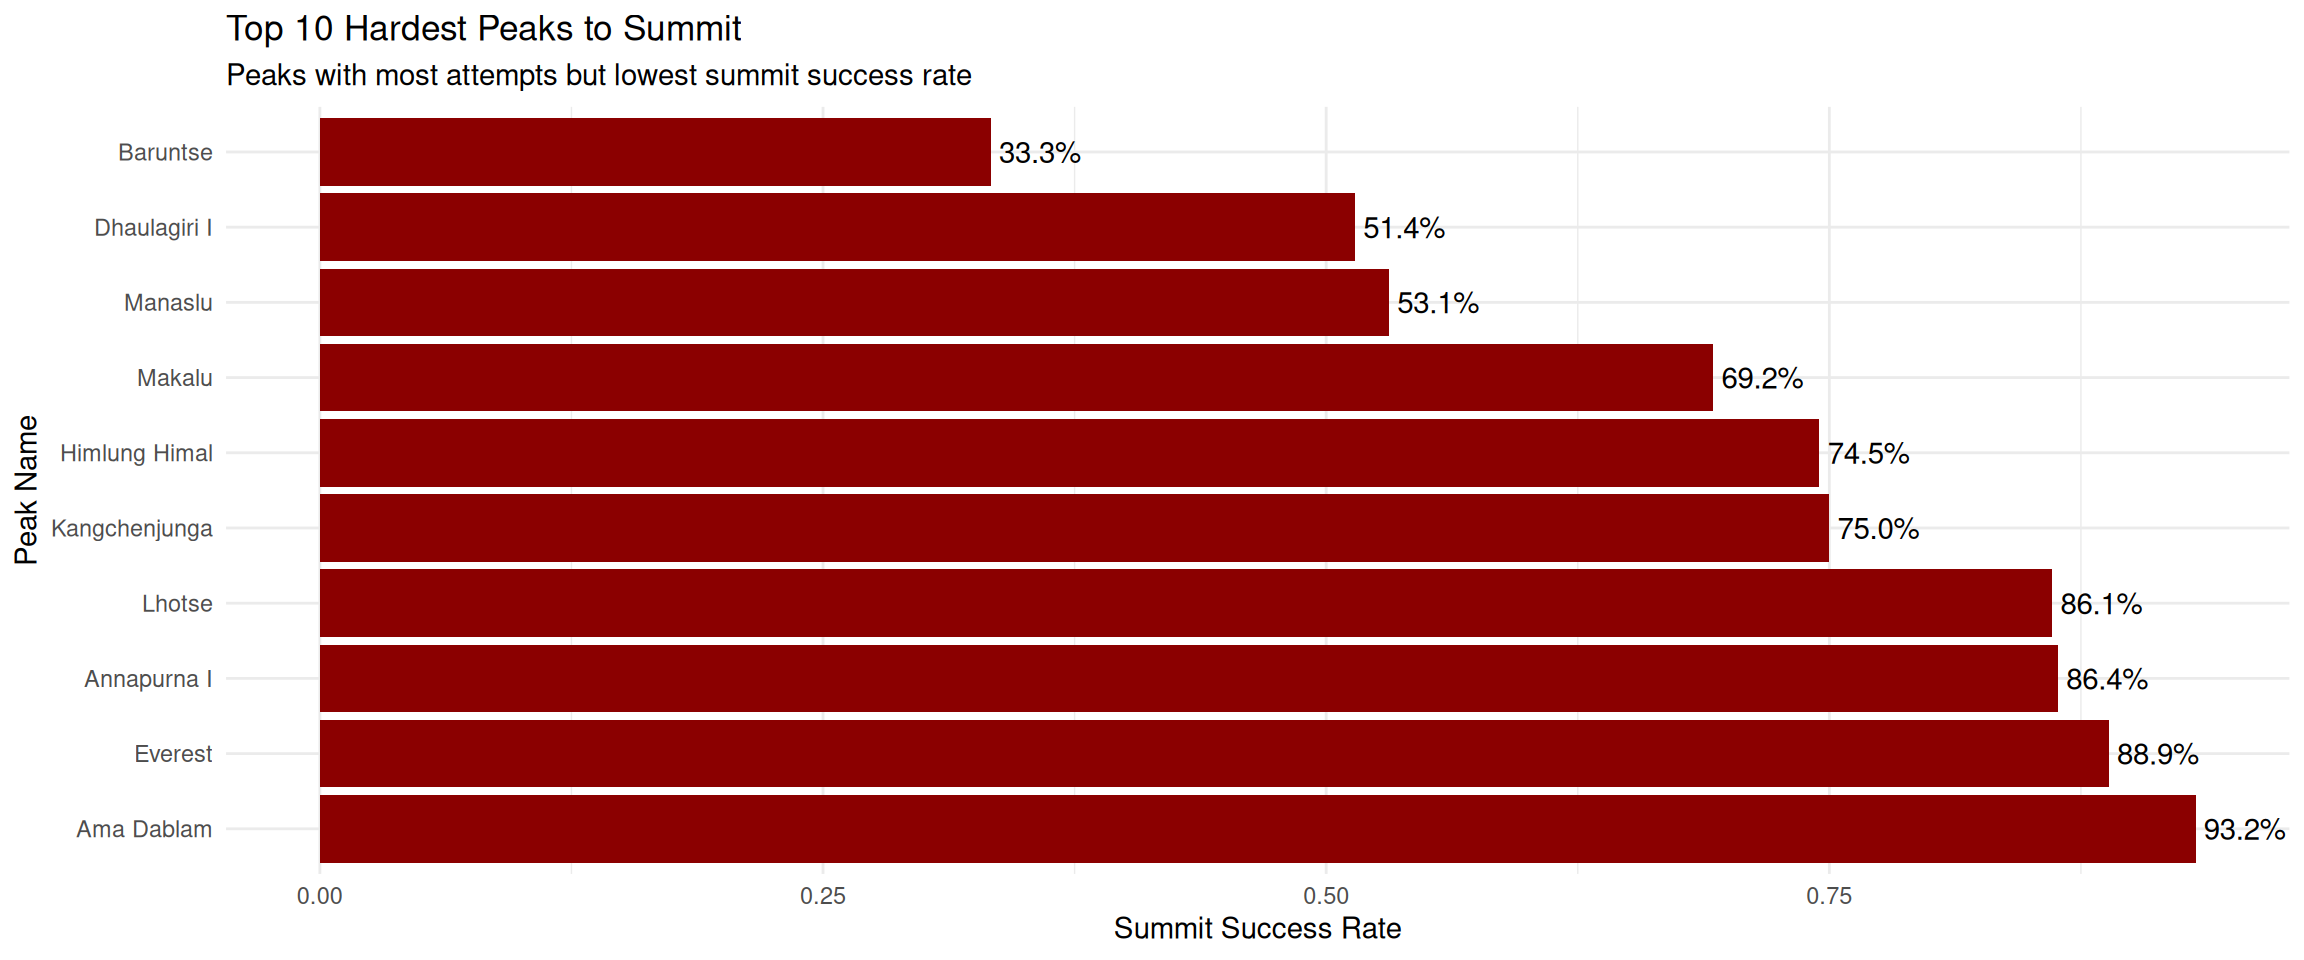
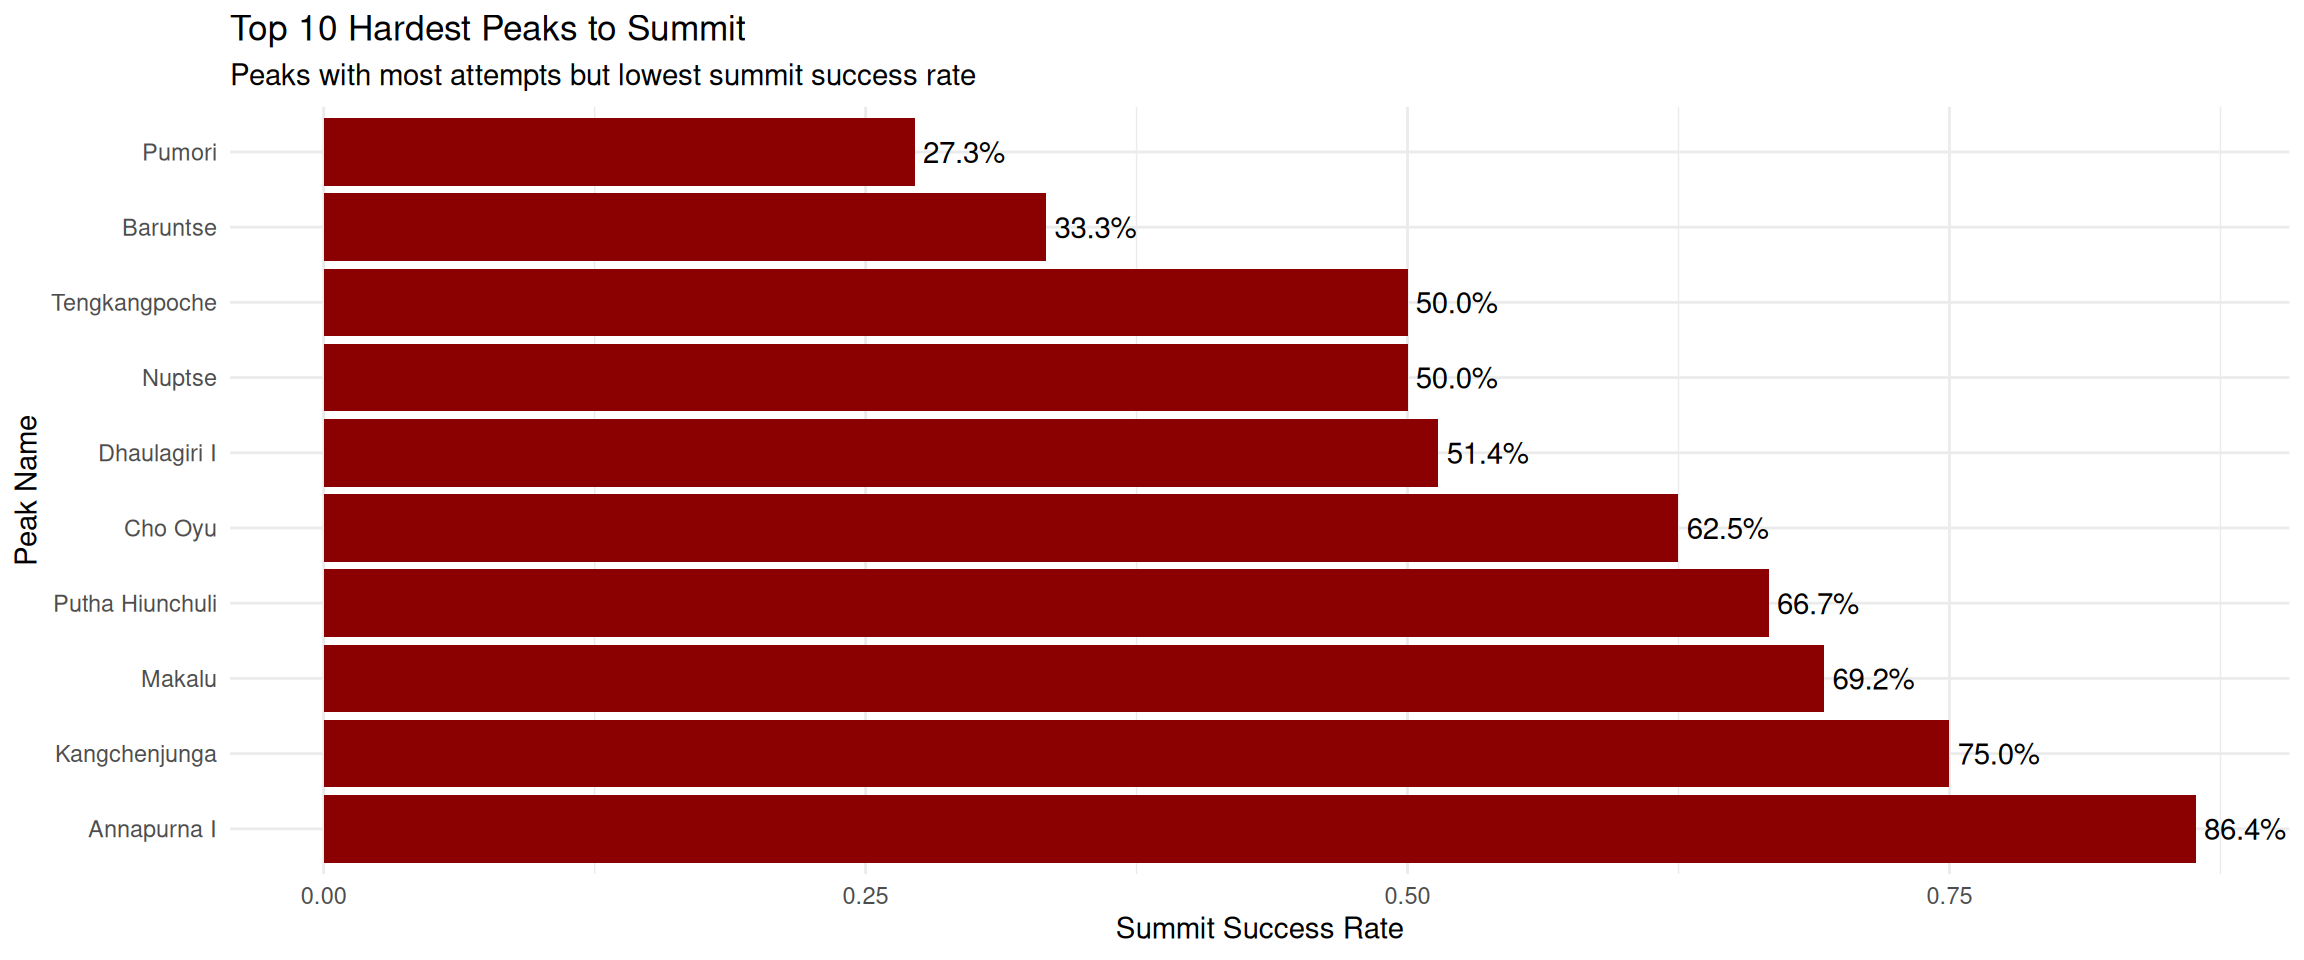
Built site for gh-pages

diff --git a/projects/project_title.html b/projects/project_title.html
@@ -293,7 +293,7 @@ pre > code.sourceCode > span > a:first-child::before { text-decoration: underlin
 <h2 class="anchored" data-anchor-id="questions">Questions</h2>
 <section id="what-is-the-most-successful-route-for-the-expedition-for-8000m-peaks" class="level3">
 <h3 class="anchored" data-anchor-id="what-is-the-most-successful-route-for-the-expedition-for-8000m-peaks">1. What is the most successful route for the expedition for 8000m peaks?</h3>
-<p>There are 4 different routes enlisted for each peaks, assigned by <code>ASCENT1</code>, <code>ASCENT2</code>, <code>ASCENT3</code> and <code>ASCENT4</code>. The successful climbing using these routes are stored in corresponding logical vector <code>SUCCESS1</code>, <code>SUCCESS2</code>, <code>SUCCESS3</code>, <code>SUCCESS4</code>. We will use these SUCCESS data along with the <code>exped.8k</code> dataset.</p>
+<p>There are 4 different routes enlisted for each peaks, assigned by <code>ROUTE1</code>, <code>ROUTE2</code>, <code>ROUTE3</code> and <code>ROUTE4</code>. The successful climbing using these routes are stored in corresponding logical vector <code>SUCCESS1</code>, <code>SUCCESS2</code>, <code>SUCCESS3</code>, <code>SUCCESS4</code>. We will use these SUCCESS data along with the <code>exped.8k</code> dataset.</p>
 <div class="cell">
 <div class="sourceCode cell-code" id="cb12"><pre class="sourceCode r code-with-copy"><code class="sourceCode r"><span id="cb12-1"><a href="#cb12-1" aria-hidden="true" tabindex="-1"></a>exped<span class="fl">.8</span>k <span class="sc">|&gt;</span> <span class="fu">pivot_longer</span>(<span class="at">cols =</span> <span class="fu">c</span>(SUCCESS1, SUCCESS2, SUCCESS3, SUCCESS4),</span>
 <span id="cb12-2"><a href="#cb12-2" aria-hidden="true" tabindex="-1"></a>                           <span class="at">names_to =</span> <span class="st">"route_success"</span>,</span>
@@ -525,7 +525,7 @@ pre > code.sourceCode > span > a:first-child::before { text-decoration: underlin
 <span id="cb21-3"><a href="#cb21-3" aria-hidden="true" tabindex="-1"></a>  <span class="fu">group_by</span>(O2USED) <span class="sc">|&gt;</span></span>
 <span id="cb21-4"><a href="#cb21-4" aria-hidden="true" tabindex="-1"></a>  <span class="fu">summarise</span>(<span class="at">success.rate =</span> (<span class="fu">mean</span>(success, <span class="at">na.rm =</span> <span class="cn">TRUE</span>)),</span>
 <span id="cb21-5"><a href="#cb21-5" aria-hidden="true" tabindex="-1"></a>            <span class="at">death.rate =</span> <span class="fu">mean</span>(death <span class="sc">&gt;</span> <span class="dv">0</span>, <span class="at">na.rm =</span> <span class="cn">TRUE</span>)) <span class="sc">|&gt;</span></span>
-<span id="cb21-6"><a href="#cb21-6" aria-hidden="true" tabindex="-1"></a>  <span class="fu">pivot_longer</span>(<span class="at">cols =</span> <span class="fu">c</span>(success.rate, death.rate), <span class="at">names_to =</span> <span class="st">"names"</span>, <span class="at">values_to =</span> <span class="st">"rate"</span>) <span class="sc">%&gt;%</span></span>
+<span id="cb21-6"><a href="#cb21-6" aria-hidden="true" tabindex="-1"></a>  <span class="fu">pivot_longer</span>(<span class="at">cols =</span> <span class="fu">c</span>(success.rate, death.rate), <span class="at">names_to =</span> <span class="st">"names"</span>, <span class="at">values_to =</span> <span class="st">"rate"</span>) <span class="sc">|&gt;</span></span>
 <span id="cb21-7"><a href="#cb21-7" aria-hidden="true" tabindex="-1"></a>  <span class="fu">ggplot</span>(<span class="fu">aes</span>(<span class="at">x =</span> O2USED, <span class="at">y =</span> rate, <span class="at">fill =</span> names)) <span class="sc">+</span></span>
 <span id="cb21-8"><a href="#cb21-8" aria-hidden="true" tabindex="-1"></a>  <span class="fu">geom_col</span>(<span class="at">position =</span> <span class="st">"dodge"</span>) <span class="sc">+</span></span>
 <span id="cb21-9"><a href="#cb21-9" aria-hidden="true" tabindex="-1"></a>  <span class="fu">scale_y_continuous</span>(<span class="at">labels =</span> scales<span class="sc">::</span>percent) <span class="sc">+</span></span>
@@ -552,7 +552,7 @@ pre > code.sourceCode > span > a:first-child::before { text-decoration: underlin
 <span id="cb22-7"><a href="#cb22-7" aria-hidden="true" tabindex="-1"></a>    <span class="at">summit.rate =</span> successes <span class="sc">/</span> attempts) <span class="sc">|&gt;</span></span>
 <span id="cb22-8"><a href="#cb22-8" aria-hidden="true" tabindex="-1"></a>  <span class="fu">left_join</span>(<span class="fu">select</span>(peak.data, PEAKID, PKNAME), <span class="at">by =</span> <span class="st">"PEAKID"</span>) <span class="sc">|&gt;</span></span>
 <span id="cb22-9"><a href="#cb22-9" aria-hidden="true" tabindex="-1"></a>  <span class="fu">filter</span>(<span class="sc">!</span><span class="fu">is.na</span>(PKNAME), attempts <span class="sc">&gt;=</span> <span class="dv">5</span>) <span class="sc">|&gt;</span></span>
-<span id="cb22-10"><a href="#cb22-10" aria-hidden="true" tabindex="-1"></a>  <span class="fu">arrange</span>(<span class="fu">desc</span>(attempts)) <span class="sc">|&gt;</span></span>
+<span id="cb22-10"><a href="#cb22-10" aria-hidden="true" tabindex="-1"></a>  <span class="fu">arrange</span>(attempts) <span class="sc">|&gt;</span></span>
 <span id="cb22-11"><a href="#cb22-11" aria-hidden="true" tabindex="-1"></a>  <span class="fu">slice_head</span>(<span class="at">n =</span> <span class="dv">10</span>) <span class="sc">|&gt;</span></span>
 <span id="cb22-12"><a href="#cb22-12" aria-hidden="true" tabindex="-1"></a>  <span class="fu">arrange</span>(summit.rate) <span class="sc">|&gt;</span></span>
 <span id="cb22-13"><a href="#cb22-13" aria-hidden="true" tabindex="-1"></a>  <span class="co">#slice_head(n = 10) |&gt;</span></span>

diff --git a/projects.html b/projects.html
@@ -220,7 +220,7 @@ Author
 </thead>
 <tbody class="list">
 
-<tr data-index="0" data-listing-date-sort="1753142400000" data-listing-file-modified-sort="1753340536218" data-listing-date-modified-sort="NaN" data-listing-reading-time-sort="7" data-listing-word-count-sort="1381" data-listing-title-sort="Himalayan expedition data" data-listing-filename-sort="project_title.qmd">
+<tr data-index="0" data-listing-date-sort="1753142400000" data-listing-file-modified-sort="1753367291909" data-listing-date-modified-sort="NaN" data-listing-reading-time-sort="7" data-listing-word-count-sort="1381" data-listing-title-sort="Himalayan expedition data" data-listing-filename-sort="project_title.qmd">
 <td>
 <span class="listing-date">07-22-2025</span>
 </td>
